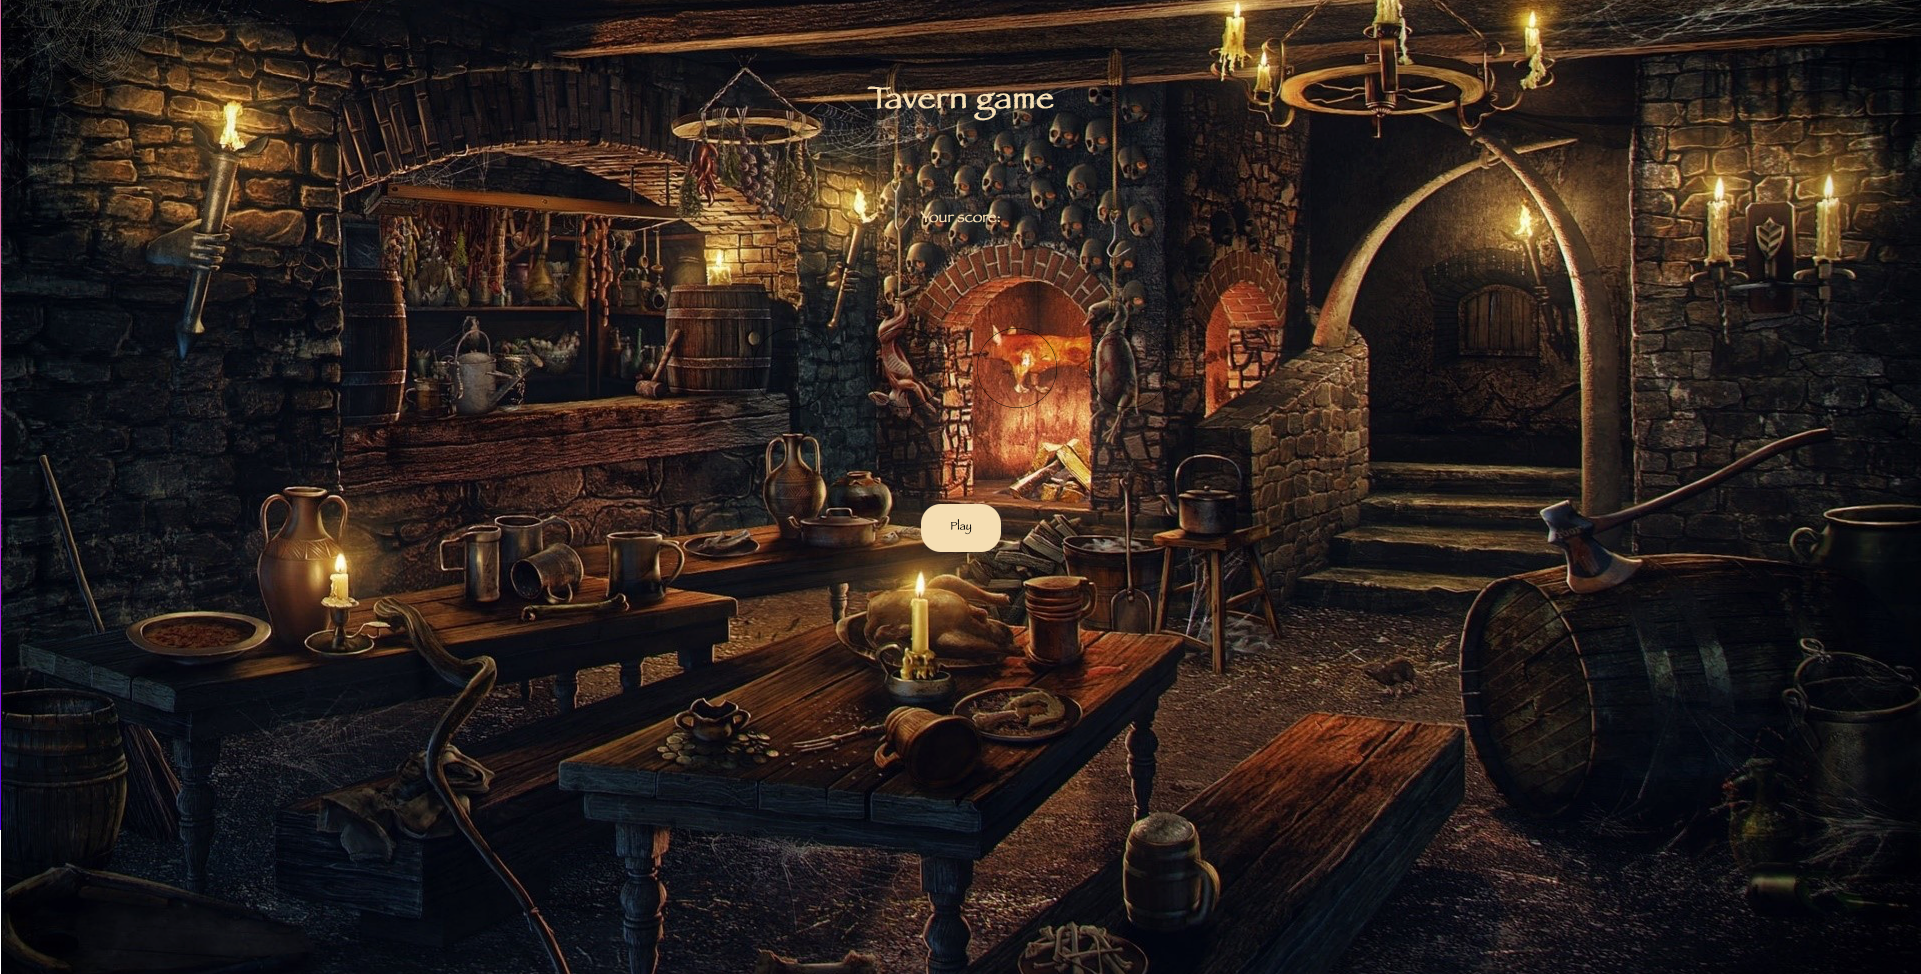
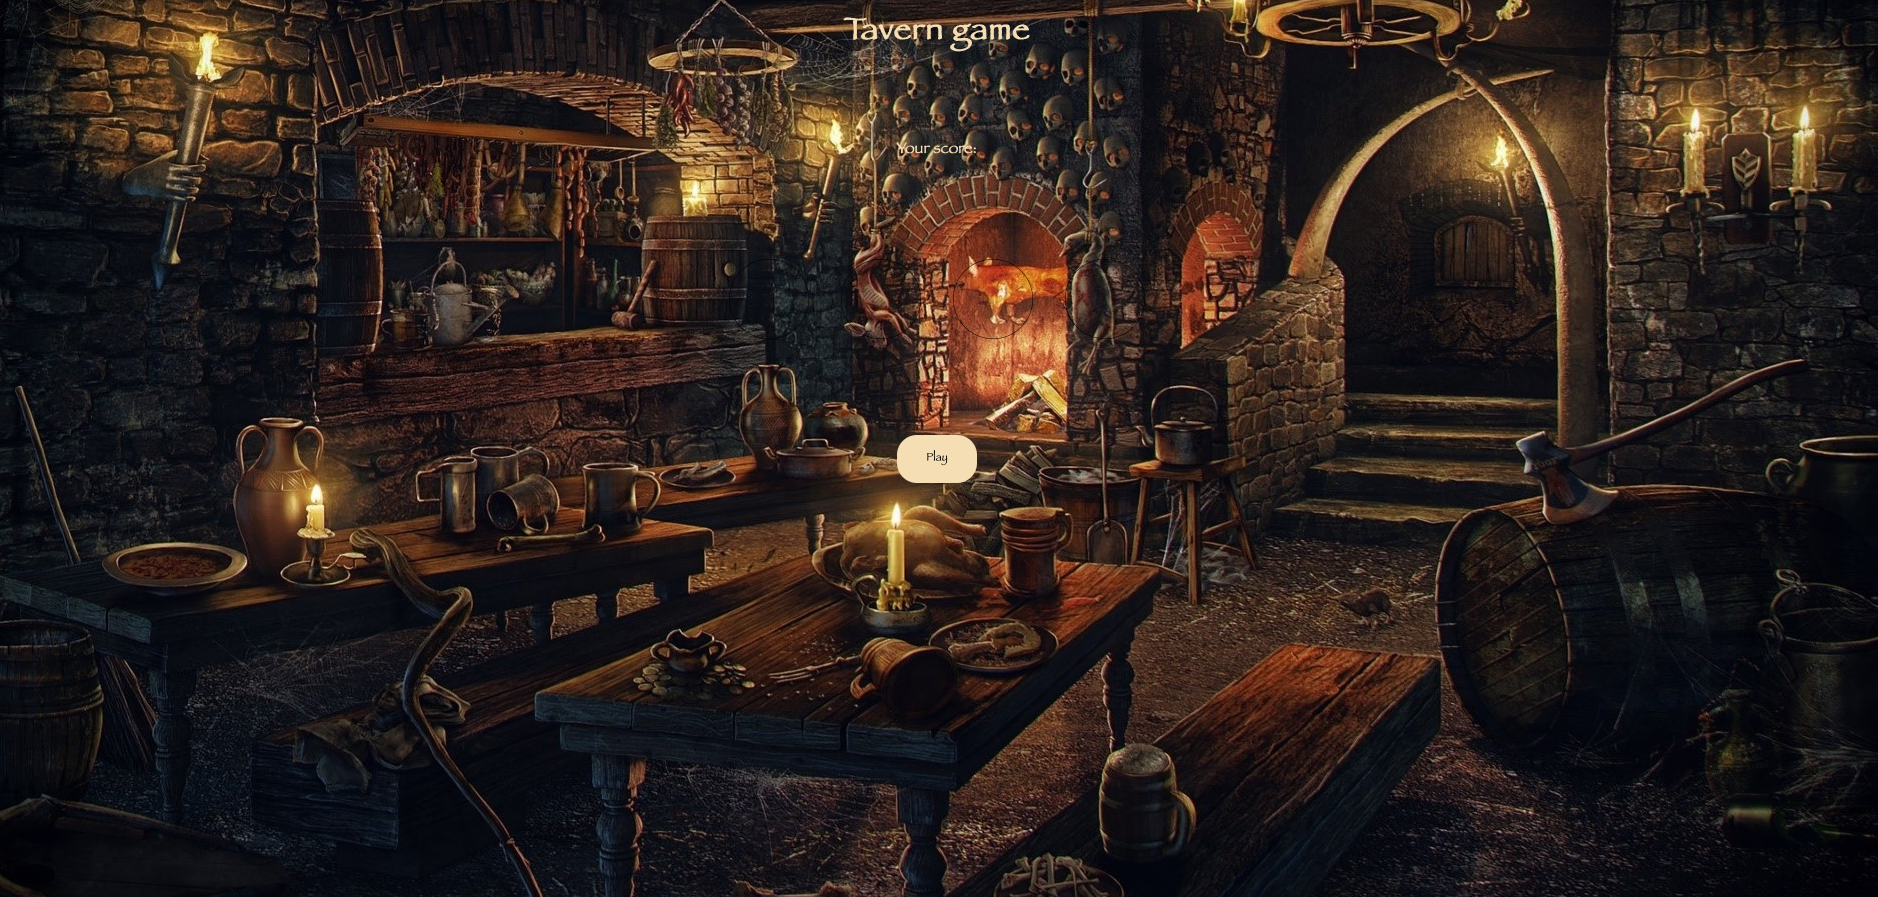
adjusted picture size and markdown

diff --git a/README.md b/README.md
@@ -24,7 +24,7 @@ Press "Play" button to start the game, music will go on and beer mugs start to p
 - Game ends when you hit the wrong circle
 - Game ends when beer pops up 10 times
 
-[### Game link](https://public.bc.fi/s2300108/speedgame/)
+[**Game link**](https://public.bc.fi/s2300108/speedgame/)
 
 # Screenshot
 
